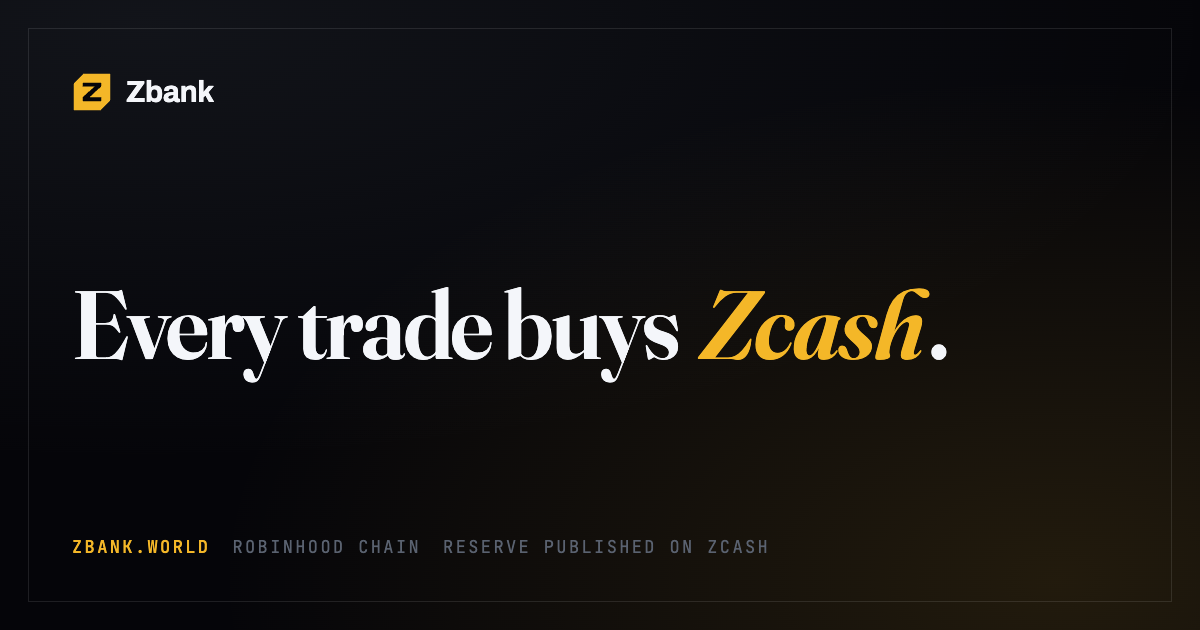
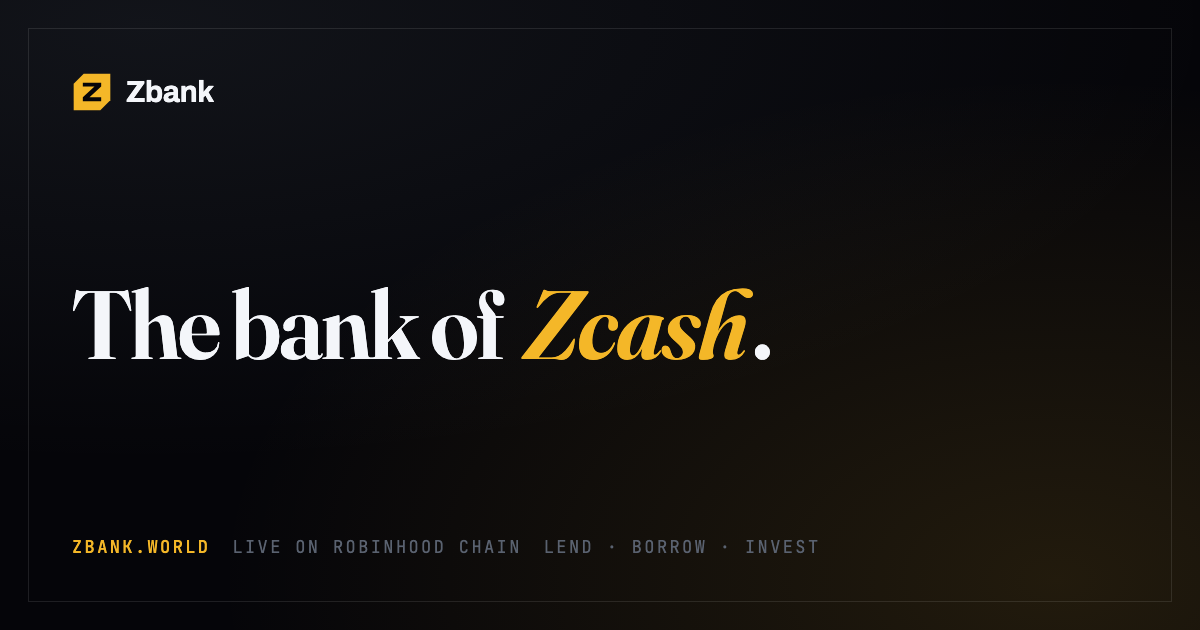
OG card: bank positioning, launch footer

Changed region(s): [[0.0617, 0.4524, 0.8017, 0.6032], [0.185, 0.8444, 0.6783, 0.8746]]

diff --git a/web/scripts/og.html b/web/scripts/og.html
@@ -430,12 +430,12 @@
         <span class="og__word">Zbank</span>
       </div>
 
-      <h1 class="og__title">Every trade buys <em>Zcash</em>.</h1>
+      <h1 class="og__title">The bank of <em>Zcash</em>.</h1>
 
       <div class="og__foot">
         <b>zbank.world</b>
-        <span>Robinhood Chain</span>
-        <span>Reserve published on Zcash</span>
+        <span>Live on Robinhood Chain</span>
+        <span>Lend · Borrow · Invest</span>
       </div>
     </div>
 
